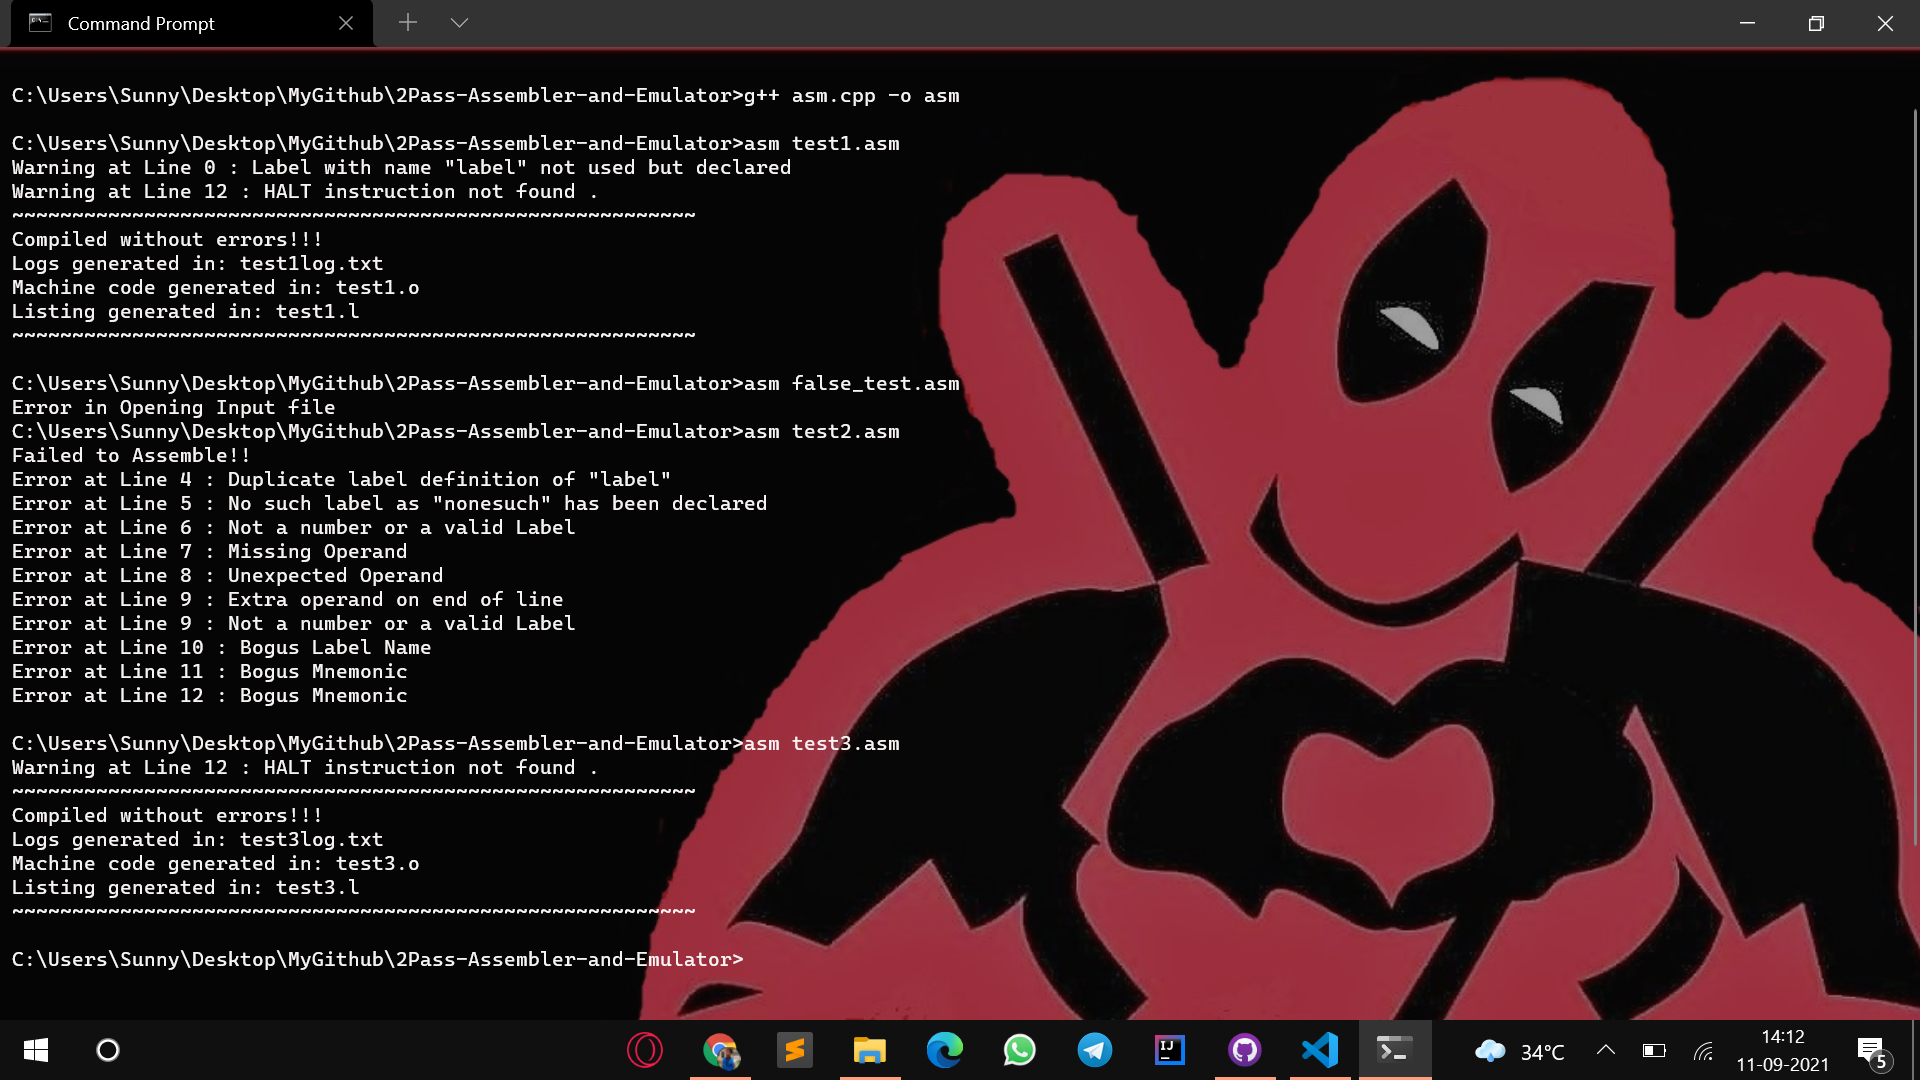
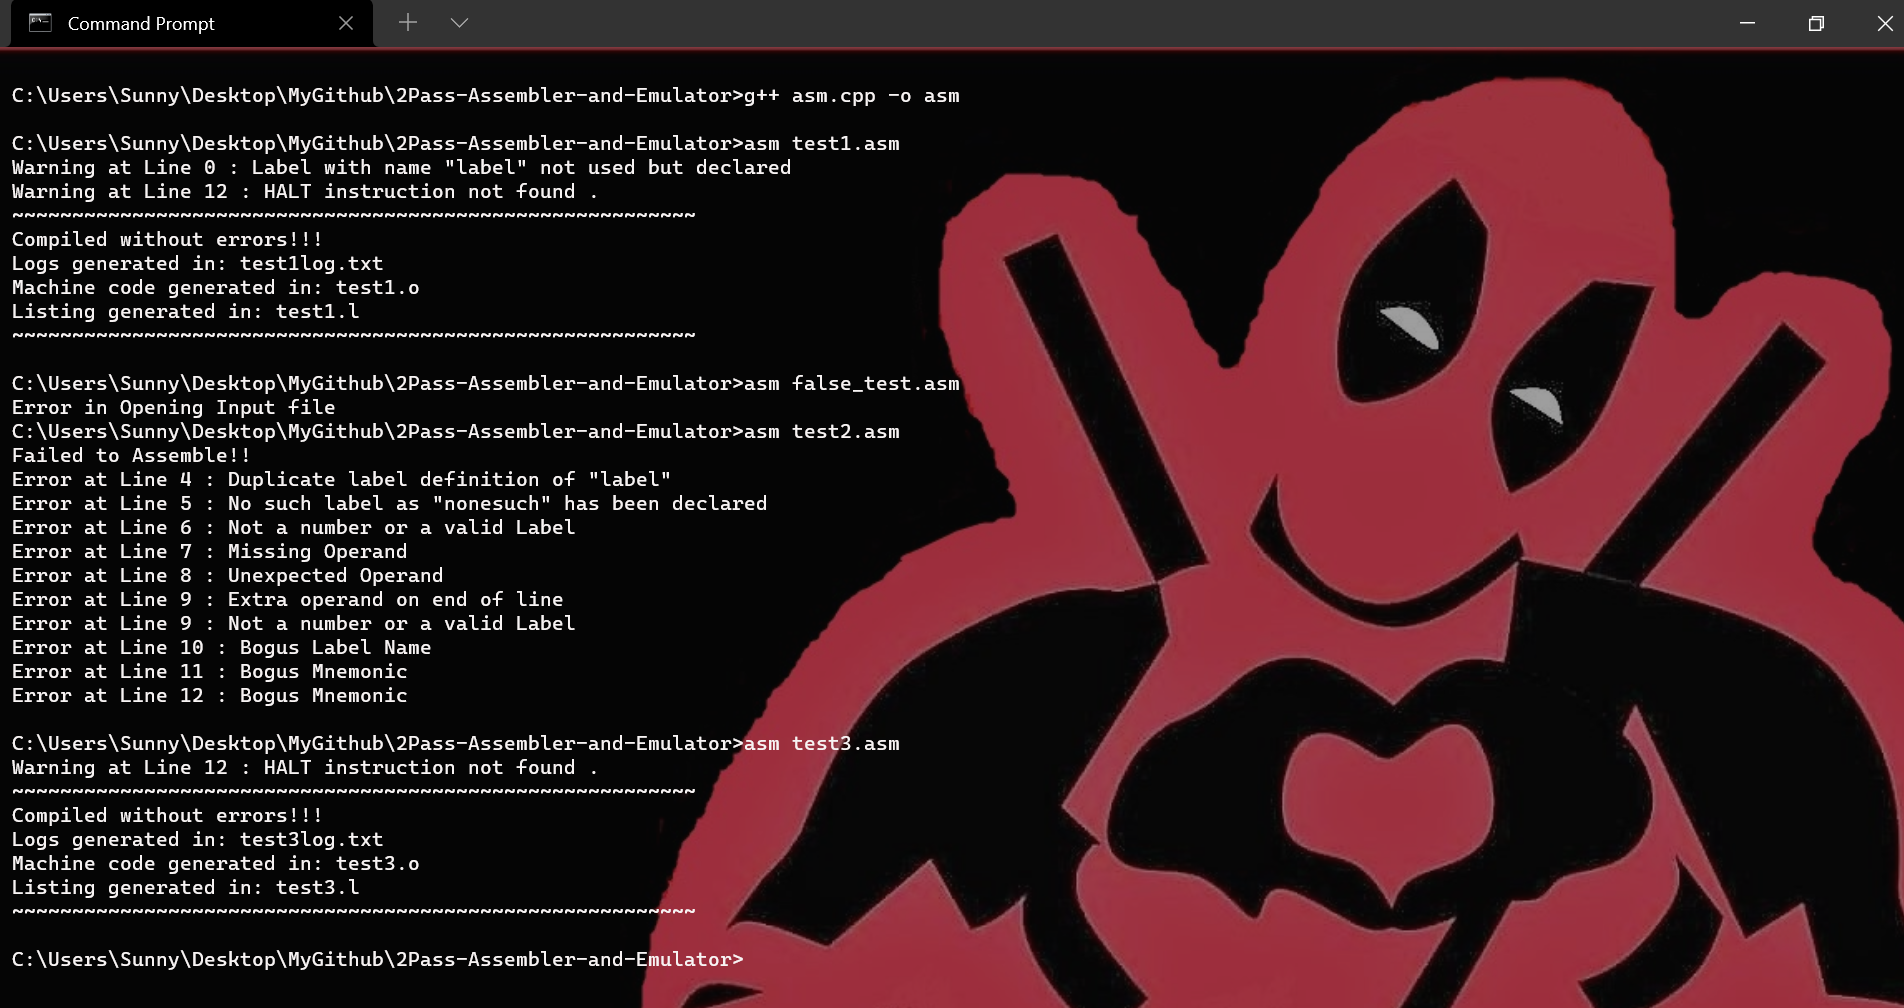
Added Deadpool Terminal Demo

diff --git a/README.md b/README.md
@@ -32,10 +32,8 @@ NOTE2: The run instructions and project design are mentioned in claims.txt files
 
 ### Sample Assembler Run
 
-<img src="https://github.com/SunnyChaturvedi/2Pass-Assembler-and-Emulator/blob/main/test_run_pics/testing_pic1.jpg" alt="3"/>
-
-<img src="https://github.com/SunnyChaturvedi/2Pass-Assembler-and-Emulator/blob/main/test_run_pics/testing_pic2.jpg" alt="4" />
+<img src="https://github.com/SunnyChaturvedi/2Pass-Assembler-and-Emulator/blob/main/test_run_pics/test_asm.png" alt="3"/>
 
 ### Sample Emulator Run
 
-<img src="https://github.com/SunnyChaturvedi/2Pass-Assembler-and-Emulator/blob/main/test_run_pics/testing_pic3.jpg" alt="5" />
+<img src="https://github.com/SunnyChaturvedi/2Pass-Assembler-and-Emulator/blob/main/test_run_pics/test_emu.png" alt="4" />
